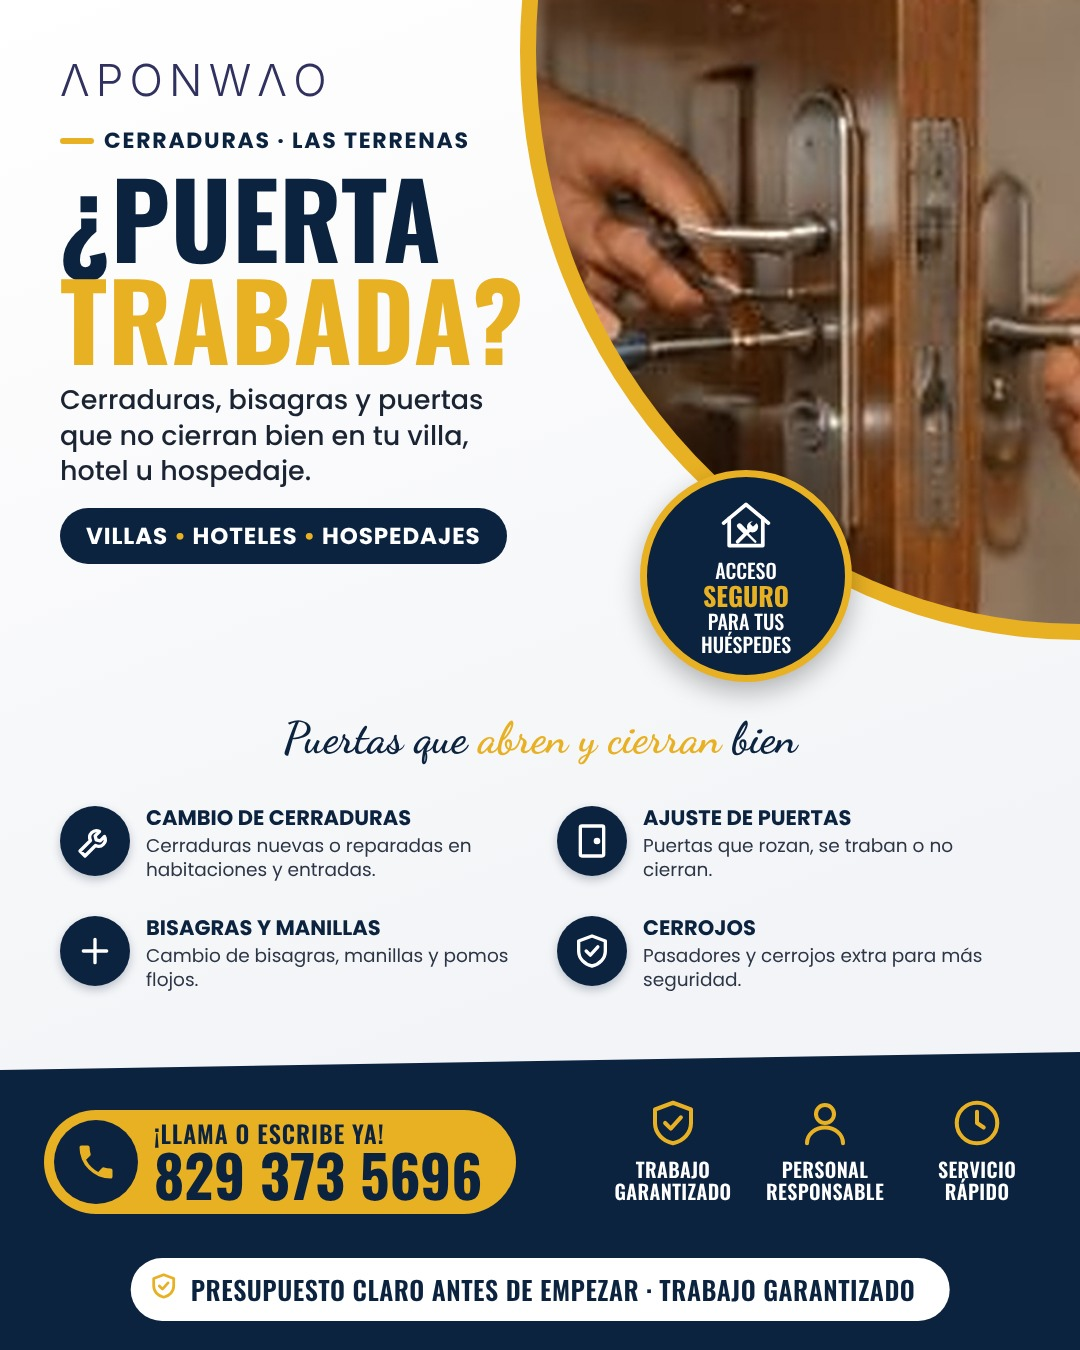
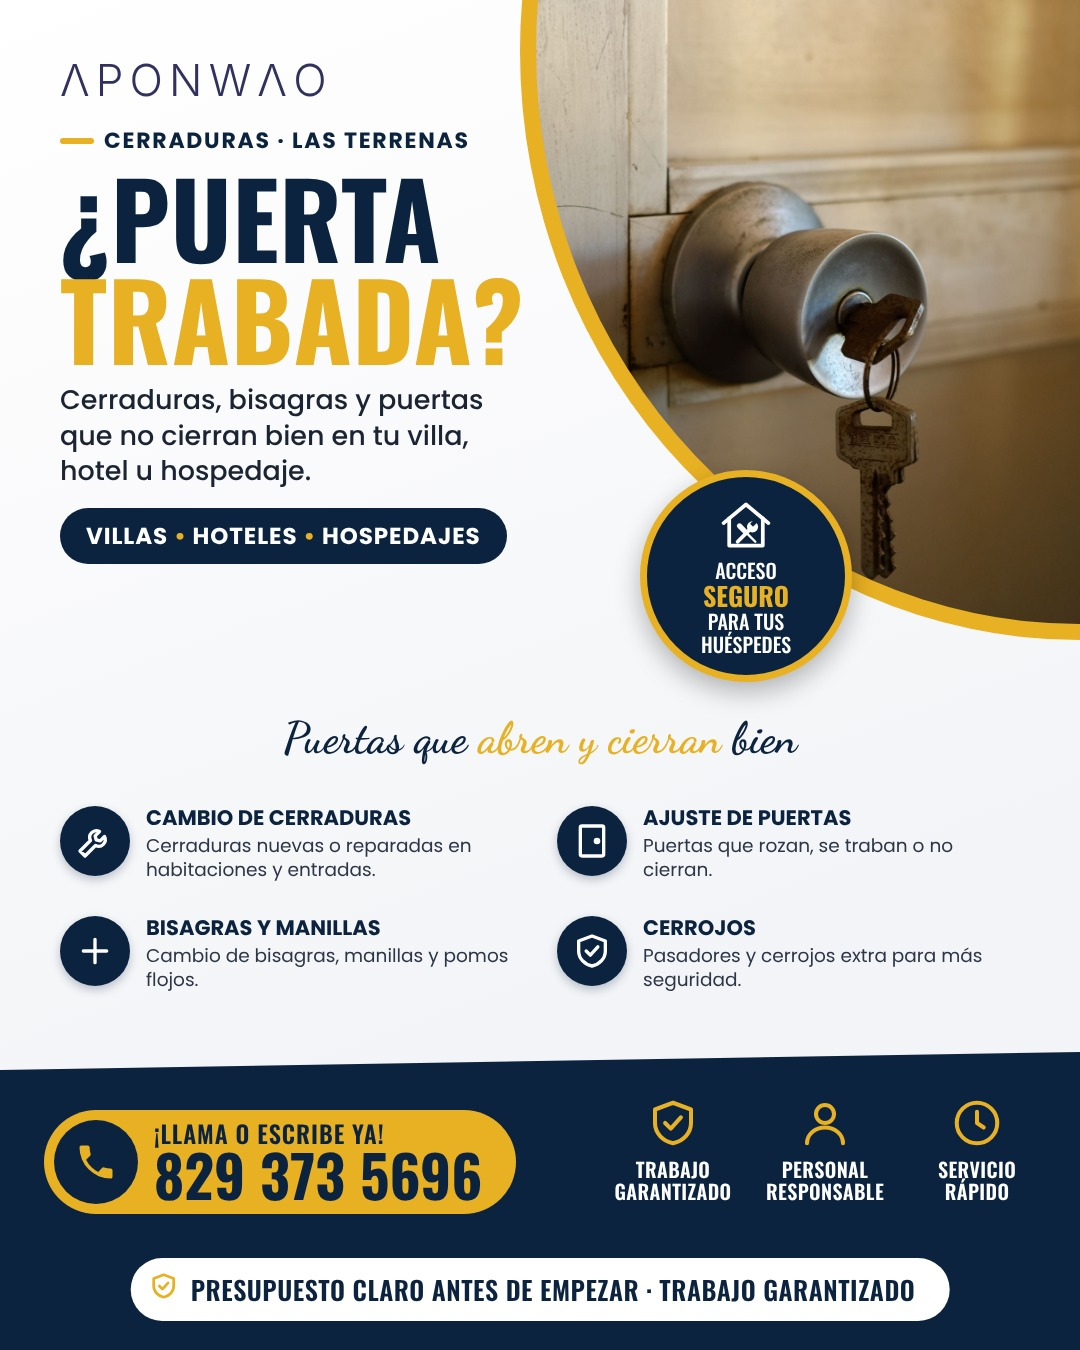
Fotos nuevas de Pexels: puerta, abanico, villa y apretón de manos
Claude-Session: https://claude.ai/code/session_01Qxq9Pssr3rJ7pT6TZUhoFX

Changed region(s): [[0.4889, 0.0, 1.0, 0.4667]]

diff --git a/generador/generar.py b/generador/generar.py
@@ -46,7 +46,7 @@ def sellos_html():
 def post(t):
     return f'''<!doctype html><html><head><meta charset="utf-8"><link rel="stylesheet" href="../brand.css"><link rel="stylesheet" href="../piezas.css"></head>
 <body class="post"><div class="c">
- <div class="hero"><div class="photo" style="background-image:url(../{t["foto"]})"></div></div>
+ <div class="hero"><div class="photo" style="background-image:url(../{t["foto"]});background-position:{t.get("foto_pos","center")}"></div></div>
  <div class="top">
    <div class="wordmark">ΛPONWΛO</div>
    <div class="kicker">{e(t["etiqueta"])}</div>
@@ -75,7 +75,7 @@ def historia(t):
    <div class="head h2">{e(t["titulo2"])}</div>
    <div class="sub">{e(t["subtitulo"])}</div>
  </div>
- <div class="photo" style="background-image:url(../{t["foto"]})"><div class="badge">{HOUSE.format(c="#fff", bg="#0C2340")}<div>{t["badge"]}</div></div></div>
+ <div class="photo" style="background-image:url(../{t["foto"]});background-position:{t.get("foto_pos","center")}"><div class="badge">{HOUSE.format(c="#fff", bg="#0C2340")}<div>{t["badge"]}</div></div></div>
  <div class="pill">{t["pill"]}</div>
  <div class="list">{servicios_html(t["servicios"], True)}</div>
  <div class="script">{t["script"]}</div>

diff --git a/generador/INSTRUCCIONES.md b/generador/INSTRUCCIONES.md
@@ -49,3 +49,9 @@ Nunca copiar nombres ni datos de quienes publican en los grupos.
 6. Enviar el correo (Gmail) con enlaces a ambas imágenes, tema y próximo tema.
 7. Programar en Metricool para las 11:30 del mismo día: post Facebook con texto + historia Instagram.
 8. Recordar en el correo que la historia se agrega a Destacadas → "Mantenimiento" desde la app de Instagram.
+
+## Créditos de fotos (Pexels, licencia gratuita)
+- abanico.jpg: Curtis Adams (7601317)
+- manos.jpg: Kampus Production (8441790)
+- puerta.jpg: marcologous (36585227)
+- villa.jpg: Souranshi Fashion and Lifestyle Magazine (4497544)
